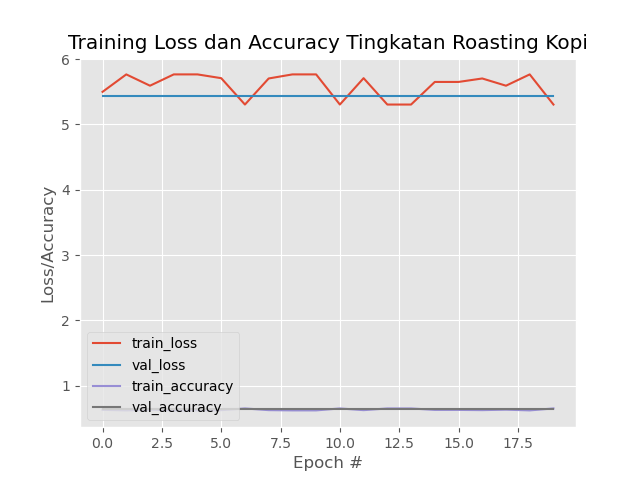
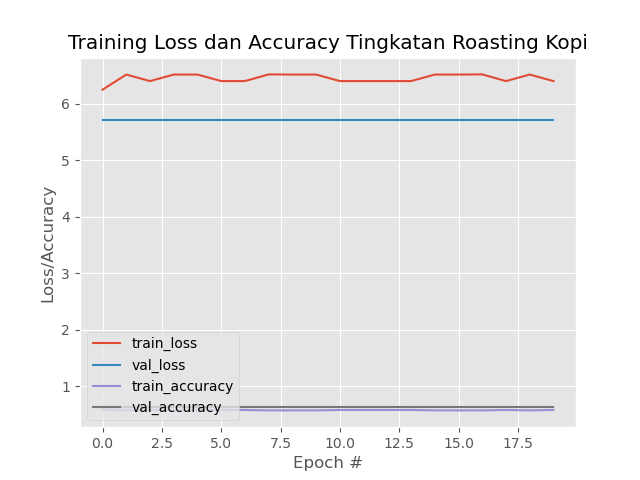
VGG16 overfitting

diff --git a/VGG16/train_vgg16.py b/VGG16/train_vgg16.py
@@ -1,0 +1,125 @@
+from skimage import feature
+from imutils import paths
+import imutils
+import cv2
+import numpy as np
+import matplotlib
+matplotlib.use("Agg")
+import tensorflow as tf
+from tensorflow import keras
+from tensorflow.keras.optimizers import Adam
+from sklearn.model_selection import train_test_split
+from keras.preprocessing.image import img_to_array
+from keras.preprocessing.image import ImageDataGenerator
+from keras.utils import to_categorical
+from VGG16 import VGG16
+import matplotlib.pyplot as plt
+import random
+import os
+import argparse
+
+# configuration = tf.compat.v1.ConfigProto(device_count={"GPU": 0})
+# session = tf.compat.v1.Session(config=configuration)
+tf.config.experimental.set_visible_devices([], 'GPU')
+tf.config.experimental.list_physical_devices('GPU')
+tf.config.experimental.list_logical_devices('GPU')
+
+np.seterr(divide='ignore', invalid='ignore')
+
+#konstruk argumen
+ap = argparse.ArgumentParser()
+ap.add_argument("-p", "--plot", type=str, default="plot.png",
+	help="path to output accuracy/loss plot")
+args = vars(ap.parse_args())
+
+# inisiasi variabel
+EPOCHS = 20
+INIT_LR = 1e-3
+BS = 32
+
+print("[Info] Membaca Dataset")
+labels = []
+data = []
+iter = 0
+
+#mengambil gambar kemudian diacak
+imagePaths = sorted(list(paths.list_images("../prepo")))
+random.seed(42)
+random.shuffle(imagePaths)
+
+
+for imagePath in imagePaths:
+    make = imagePath[9:].split("(")[0]
+    image = cv2.imread(imagePath)
+    image = cv2.resize(image,(224,224))
+    image = img_to_array(image)
+    data.append(image)
+
+    print("Tingkat Roasting:", make, "Gambar :", imagePath, "Iteration: ",iter)
+    iter+=1
+
+    if make == "Mentah ":
+        label = 0
+        # labels.append(label)
+    elif make == "Light Roast ":
+        label = 1
+        # labels.append(label)
+    elif make =="Medium Roast ":
+        label = 2
+        # labels.append(label)
+    elif make == "Dark Roast ":
+        label = 3
+        # labels.append(label)
+    labels.append(label)
+
+print(labels)
+print("[Info] Selesai Membaca Dataset")
+
+#mengukur intensitas raw pixel dari 0-1
+data = np.array(data, dtype="float") / 255.0
+labels = np.array(labels)
+
+#membagi data menjadi 75% train 25% test
+(trainX, testX, trainY, testY) = train_test_split(data, labels, test_size=0.25, random_state=42)
+
+#konversi label dari integer ke vector
+trainY = to_categorical(trainY, num_classes=4)
+testY = to_categorical(testY, num_classes=4)
+
+#image generator untuk data augmentation
+aug = ImageDataGenerator(rotation_range = 30, width_shift_range=0.1, 
+    height_shift_range=0.1, shear_range=0.2, zoom_range=0.2,
+    horizontal_flip=True, fill_mode="nearest")
+
+#inisiasi model
+print("[Info] Compiling Model.....")
+model = VGG16.build(width=224, height=224, depth=3, classes=4)
+opt = Adam(lr=INIT_LR, decay=INIT_LR / EPOCHS)
+model.compile(loss="binary_crossentropy", optimizer=opt, metrics=["accuracy"])
+
+#train the network
+print("[Info] training model")
+H = model.fit_generator(aug.flow(trainX, trainY, batch_size=BS),
+	validation_data=(testX, testY), steps_per_epoch=len(trainX) // BS,
+	epochs=EPOCHS, verbose=1)
+
+#save model
+print("[Info] menyimpan model")
+model.save('train_VGG16.model.h5')
+
+#simpan model ke disk
+# model.save(args["model"])
+
+#plot training loss dan accuracy
+plt.style.use("ggplot")
+plt.figure()
+N =  EPOCHS
+plt.plot(np.arange(0,N), H.history["loss"], label="train_loss")
+plt.plot(np.arange(0, N), H.history["val_loss"], label="val_loss")
+plt.plot(np.arange(0, N), H.history["accuracy"], label="train_accuracy")
+plt.plot(np.arange(0, N), H.history["val_accuracy"], label="val_accuracy")
+plt.title("Training Loss dan Accuracy Tingkatan Roasting Kopi")
+plt.xlabel("Epoch #")
+plt.ylabel("Loss/Accuracy")
+plt.legend(loc="lower left")
+plt.savefig(args["plot"])

diff --git a/VGG16/VGG16.py b/VGG16/VGG16.py
@@ -1,0 +1,93 @@
+import tensorflow as tf
+from tensorflow import keras
+from tensorflow.keras import Model
+from tensorflow.keras.models import Sequential 
+from tensorflow.keras.layers import Dense, Flatten, Conv2D, MaxPooling2D, Activation
+
+class VGG16:
+    @staticmethod
+    def build(width, height, depth, classes):
+        #inisiasi model
+        model = Sequential()
+        inputShape = (height, width, depth)
+
+        #1
+        model.add(Conv2D(64, (3,3), padding="same", input_shape = inputShape))
+        model.add(Activation("relu"))
+
+        #2
+        model.add(Conv2D(64, (3,3), padding ="same"))
+        model.add(Activation("relu"))
+        model.add(MaxPooling2D(pool_size=(2,2), strides = (2,2)))
+
+        #3
+        model.add(Conv2D(128, (3,3), padding="same"))
+        model.add(Activation("relu"))
+
+        #4
+        model.add(Conv2D(128, (3,3), padding="same"))
+        model.add(Activation("relu"))
+        model.add(MaxPooling2D(pool_size=(2,2), strides=(2,2)))
+
+        #5
+        model.add(Conv2D(256, (3,3), padding="same"))
+        model.add(Activation("relu"))
+
+        #6
+        model.add(Conv2D(256, (3,3), padding="same"))
+        model.add(Activation("relu"))
+
+        #7
+        model.add(Conv2D(256, (3,3), padding="same"))
+        model.add(Activation("relu"))
+        model.add(MaxPooling2D(pool_size=(2,2), strides=(2,2)))
+
+        #8
+        model.add(Conv2D(512, (3,3), padding="same"))
+        model.add(Activation("relu"))
+
+        #9
+        model.add(Conv2D(512, (3,3), padding="same"))
+        model.add(Activation("relu"))
+
+        #10
+        model.add(Conv2D(512, (3,3), padding="same"))
+        model.add(Activation("relu"))
+        model.add(MaxPooling2D(pool_size=(2,2), strides=(2,2)))
+
+        #11
+        model.add(Conv2D(512, (3,3), padding="same"))
+        model.add(Activation("relu"))
+
+        #12
+        model.add(Conv2D(512, (3,3), padding="same"))
+        model.add(Activation("relu"))
+
+        #13
+        model.add(Conv2D(512, (3,3), padding="same"))
+        model.add(Activation("relu"))
+        model.add(MaxPooling2D(pool_size=(2,2), strides=(2,2)))
+
+        #14fC
+        model.add(Flatten())
+        model.add(Dense(4096))
+        model.add(Activation("relu"))
+        # model.add(Dropout(0.5))
+
+        #15fc
+        model.add(Dense(4096))
+        model.add(Activation("relu"))
+        # model.add(Dropout(0.5))
+
+        #16Softmax
+        model.add(Dense(classes))
+        model.add(Activation("softmax"))
+
+        #return model
+        return model
+
+
+
+
+
+    

diff --git a/VGG16/test_vgg16.py b/VGG16/test_vgg16.py
@@ -1,0 +1,70 @@
+import tensorflow as tf
+from tensorflow import keras
+from keras.preprocessing.image import img_to_array
+from keras.models import load_model
+import numpy as np
+import argparse
+import imutils
+import cv2
+
+tf.config.experimental.set_visible_devices([], 'GPU')
+tf.config.experimental.list_physical_devices('GPU')
+tf.config.experimental.list_logical_devices('GPU')
+
+#konstruk argumen
+# ap = argparse.ArgumentParser()
+# # ap.add_argument("-m", "--model", required=True,
+# # 	help="path to trained model model")
+# ap.add_argument("-i", "--image", required=True,
+# 	help="path to input image")
+# args = vars(ap.parse_args())
+
+#load image 
+path = "../Dataset/Dark_Roast (26).jpg"
+image = cv2.imread(path, cv2.IMREAD_COLOR)
+orig = image.copy()
+
+#prepocessing histogram eq rgb
+image = cv2.cvtColor(image, cv2.COLOR_BGR2YCrCb)
+y, cr, cb = cv2.split(image)
+
+# equalize Hist operation di Y channel.
+y_eq = cv2.equalizeHist(y)
+
+image = cv2.merge((y_eq, cr, cb))
+image = cv2.cvtColor(image, cv2.COLOR_YCR_CB2BGR)
+
+#resize
+image = cv2.resize(image,(224,224))
+# cv2.imshow("o",image)
+# cv2.waitKey(0)
+image = image.astype("float") / 255.0
+image = img_to_array(image)
+image = np.expand_dims(image, axis = 0)
+
+#load model yang sudah dilatih
+print("[Info] Loading Network.....")
+# model = load_model("train_lenet.model.h5")
+model = tf.keras.models.load_model("train_VGG16.model.h5")
+array = model.predict(image)
+result = array[0]
+answer = np.argmax(result)
+
+if answer == 0:
+    label = "Mentah"
+elif answer == 1:
+    label = "Light Roast"
+elif answer == 2:
+    label = "Medium Roast"
+elif answer == 3:
+    label = "Dark Roast"
+
+label = "{}".format(label)
+
+# # draw label di image
+output = imutils.resize(orig, width=400)
+cv2.putText(output, label, (10, 25),  cv2.FONT_HERSHEY_SIMPLEX, 0.7, (0, 255, 0), 2)
+
+# # show output image
+cv2.imshow("Output", output)
+cv2.waitKey(0)

diff --git a/AlexNet/alexnet.py b/AlexNet/alexnet.py
@@ -16,8 +16,7 @@ class AlexNet:
         # chandim = -1
 
         # Block1 conv ke-1 > RELU > Pool Layer Set
-        model.add(Conv2D(96,(11, 11), strides=(4,4), input_shape=inputShape,
-                  padding="same"))
+        model.add(Conv2D(96,(11, 11), strides=(4,4), input_shape=inputShape, padding="same"))
         model.add(Activation("relu"))
         # model.add(BatchNormalization(axis=chandim))
         model.add(MaxPooling2D(pool_size=(3, 3), strides=(2, 2)))
